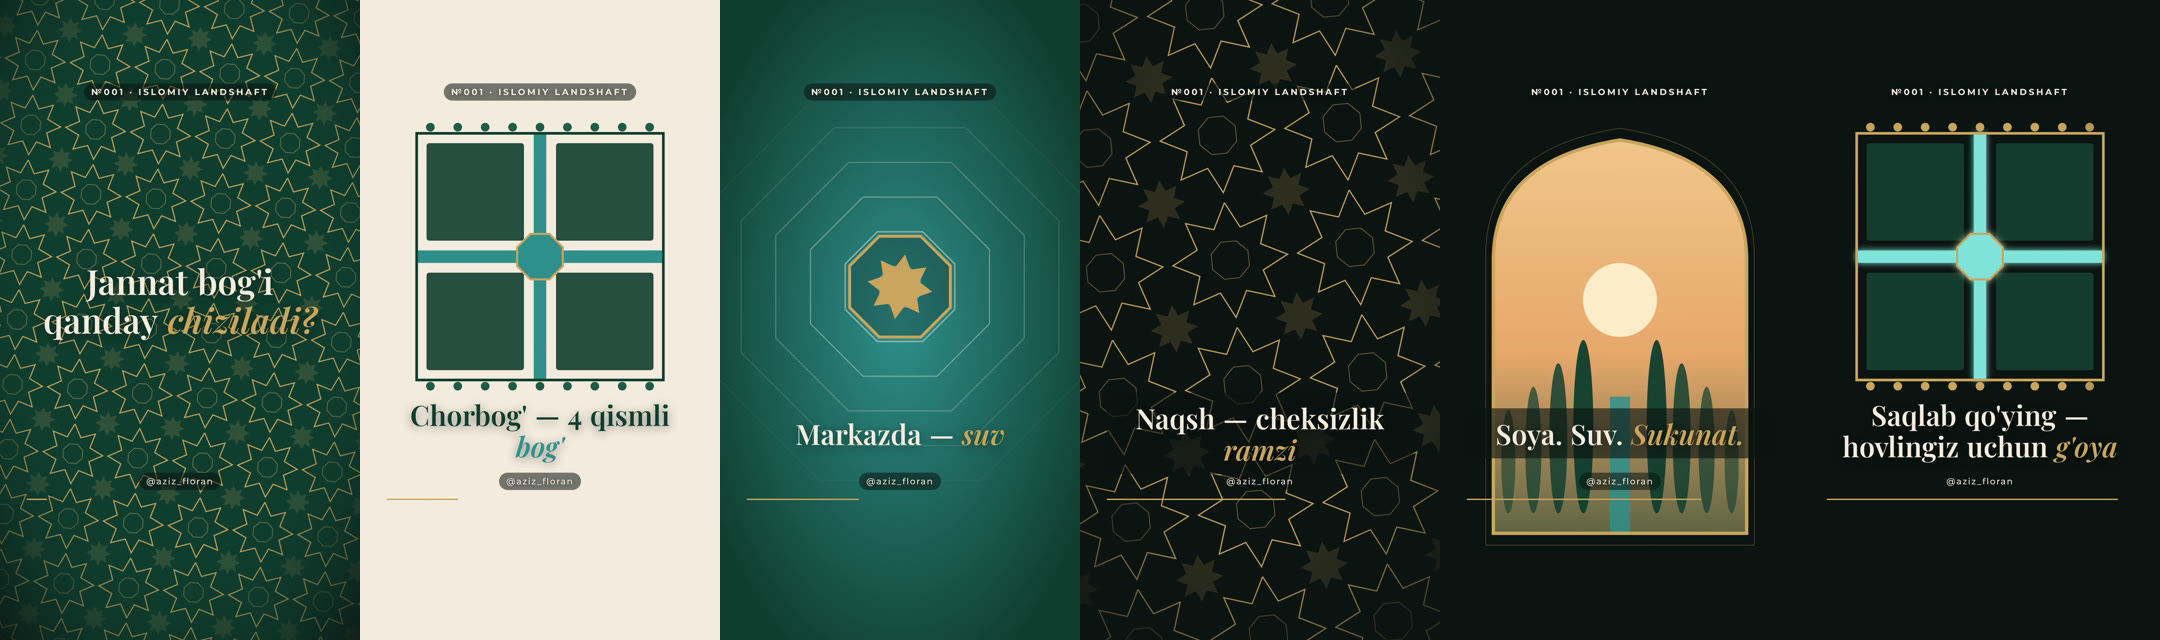
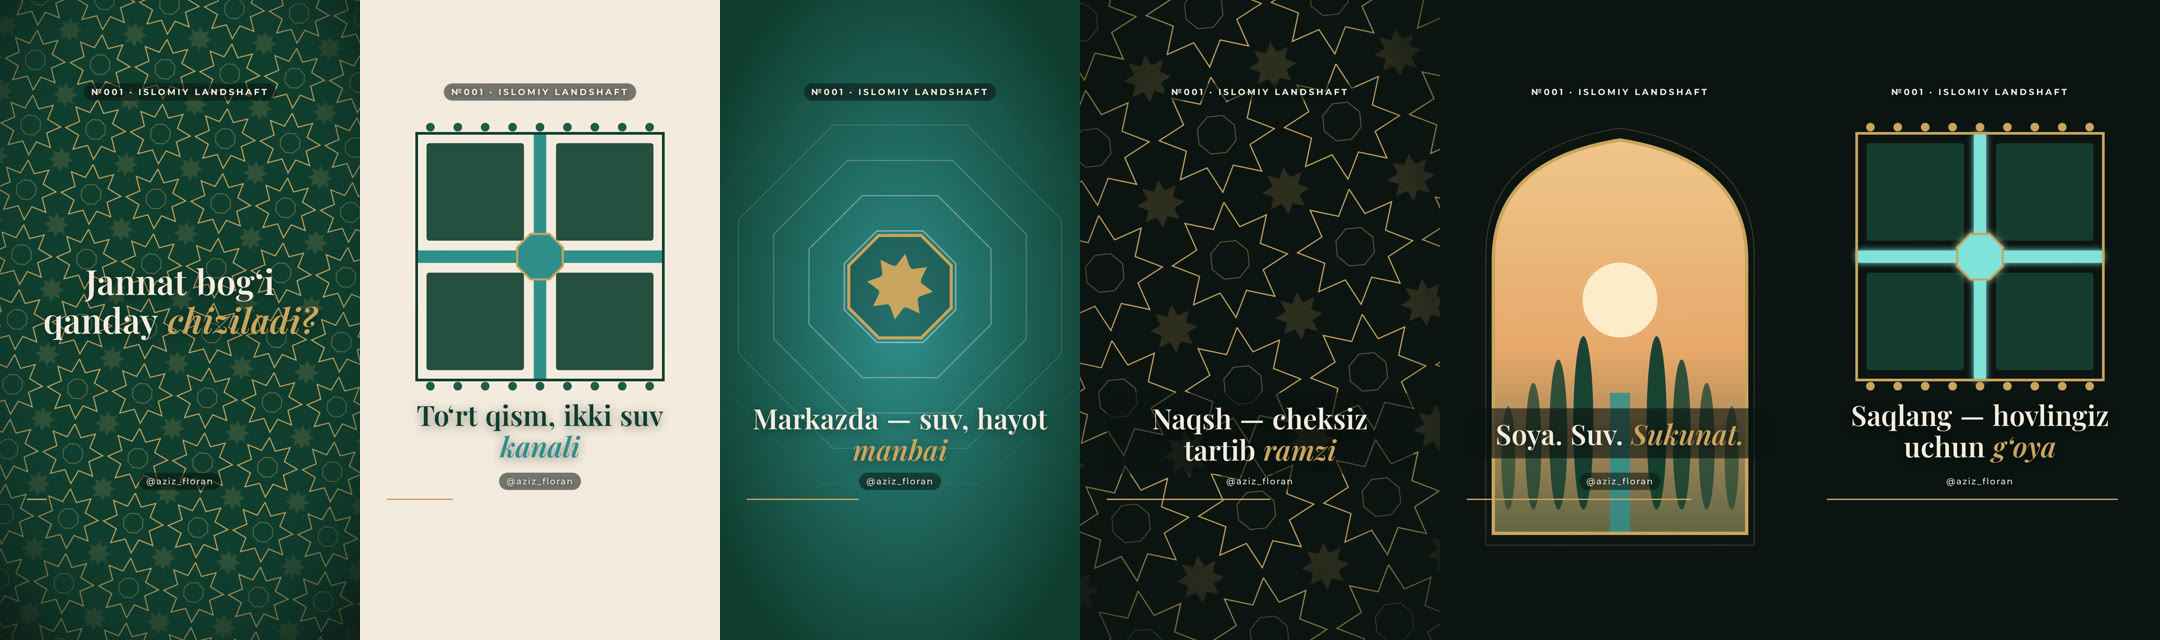
№001 01-creative: yakuniy kontseptsiya, ssenariy va caption
- concept.md: big idea, 6 ta hook varianti, tanlangan hook, sahna mantiqi
- script.json v1 (final): 6 sahna / 30 s, oʻzbek lotin imlosi (oʻ, gʻ)
- caption.md: caption, CTA, 14 hashtag
- project.json: creative → review (QC tasdig'ini kutadi)
- P001-Teaser kadrlari yangi matnlar bilan yangilandi

Claude-Session: https://claude.ai/code/session_01NuPuGHpCenQxg9mTa6XGvP

diff --git a/projects/001-islomiy-landshaft/01-creative/concept.md b/projects/001-islomiy-landshaft/01-creative/concept.md
@@ -1,0 +1,84 @@
+# №001 — Islomiy landshaft · Kontseptsiya (Creative Director)
+
+**Format:** Instagram Reels 9:16 · 1080×1920 · 30 fps · **30 s** · 6 sahna (s01–s06)
+**Manba:** `00-brief.md`, `studio/brand/brand.json` · **Yagona matn/vaqt manbai:** `script.json` (v1, final)
+
+---
+
+## 1. Big idea
+
+**“Jannat bogʻi — bu chizma.”**
+Chorbogʻ tasodifiy goʻzallik emas, balki aniq geometriya: bitta kvadrat, ikkita kesishgan suv kanali, toʻrtta parter va markazda suv. Video tomoshabinni oddiy chiziqdan (girih naqshi) boshlab, real oʻlchamli hovli rejasiga, soʻng golden hour va tungi atmosferaga olib boradi. Tomoshabin “bu goʻzal” deb emas, “buni men ham hovlimda qura olaman” deb tugatishi kerak — shuning uchun video **saqlab qoʻyiladigan** (save) maʼlumotnoma sifatida quriladi.
+
+Hissiy yoʻl: **qiziqish → tushunish → hayrat → sokinlik → harakat (save).**
+
+## 2. Mood va vizual yoʻnalish
+
+- **Kayfiyat:** sokin, tartibli, hurmatli, premium. Shoshilmaydigan, lekin har 2–4 s da vizual oʻzgarish (retention uchun).
+- **Ranglar (brand.json):** emerald `#0F3D2E` (asosiy fon), emeraldLight `#1E5C47`, gold `#C9A45C` (chiziqlar, aksent), sand `#F3EBDD` (reja foni, matn), turquoise `#2F8F8B` (suv), ink `#0B1410` (tun, s04 fon).
+- **Shriftlar:** sarlavha/hook — Playfair Display; yordamchi matn — Montserrat.
+- **Yorugʻlik:** s01–s04 — tekis, “chizma” yorugʻligi; s05 — golden hour (past, iliq, uzun soyalar); s06 — tun, iliq oq (~2700 K) chiroqlar.
+- **Materiallar:** oq travertin, zellij plitka (girih), ganch/gʻisht ravoq, tiniq turkuaz suv.
+- **Cheklovlar:** inson va hayvon tasvirlari yoʻq; diniy matn (oyat/hadis) ishlatilmaydi — “jannat bogʻi” obrazi tarixiy-madaniy maʼnoda beriladi. Ovoz (voiceover) yoʻq — faqat matn, musiqa va SFX (Reels koʻpincha ovozsiz koʻriladi).
+- **Matn xavfsiz zonasi:** yuqori 250 px, pastki 420 px, yon 80 px ichida joylashmaydi.
+
+## 3. Hook variantlari (birinchi 1–3 s)
+
+| # | Hook | Turi | Sabab / baho |
+|---|------|------|--------------|
+| 1 | **Jannat bogʻi qanday chiziladi?** | savol + jarayon | Kuchli qiziqish boʻshligʻi; “chiziladi” feʼli s01 dagi chiziq-chiziq chizilayotgan girih va s02 reja bilan bevosita bogʻlanadi. 4 soʻz — 3 s ichida bemalol oʻqiladi. |
+| 2 | Hovlingiz — toʻrt qismli jannat | shaxsiy vaʼda | Tomoshabinni markazga qoʻyadi, lekin “toʻrt qism” hali tushunarsiz — kontekstsiz kuchsizroq. |
+| 3 | Temuriylar bogʻi siri — hovlingizda | tarix + sir | Mahalliy gʻurur va tarixiy bogʻlanish yaxshi, ammo “sir” klishe va tarixiy daʼvoni videoda isbotlash qiyin. |
+| 4 | Nega bu bogʻ 4 qismga boʻlingan? | “nega” savoli | Yaxshi qiziqish, lekin javobi (ramziy maʼno) videoda qisqa vaqtda toʻliq berilmaydi — vaʼda bajarilmasligi xavfi. |
+| 5 | 20×20 m — jannat bogʻi rejasi | raqam + foyda | Amaliy, save uchun kuchli; lekin hissiy taʼsiri past, birinchi kadrda texnik koʻrinadi. |
+| 6 | Bitta chiziqdan butun bogʻ | vizual vaʼda | Chiroyli va s01 vizualiga mos, ammo mavzuni (islomiy bogʻ) darhol aytmaydi. |
+
+### Tanlangan hook: **“Jannat bogʻi qanday chiziladi?”**
+**Nega:** (1) savol shakli tomoshabinni javobni kutib qolishga undaydi — retention; (2) mavzu (jannat bogʻi obrazi) va format (chizma, reja — save qilinadigan foyda) bir jumlada; (3) s01 vizuali (girih chizilishi) va s02 (reja) bilan soʻzma-soʻz mos — vaʼda darhol bajarila boshlaydi; (4) 4 soʻz / 3 s = 0.75 s/soʻz, oʻqish uchun qulay. Variant 5 dagi “20×20 m” amaliy foydasi caption va s02 ga koʻchirildi.
+
+## 4. Sahna-ma-sahna asoslash
+
+| Sahna | Vaqt | Ekrandagi matn | Vizual | Nega shunday |
+|-------|------|----------------|--------|--------------|
+| s01 hook | 0–3 s | Jannat bogʻi qanday chiziladi? | Girih 8 qirrali yulduz chiziladi, zoom-out | Birinchi kadrda harakat (chiziq paydo boʻlishi) — scroll toʻxtatadi. Matn 0.3 s da chiqadi. |
+| s02 concept | 3–8 s | Toʻrt qism, ikki suv kanali | Top-down reja: perimetr → kanallar → parterlar | Hookka darhol javob: chorbogʻning “formulasi” 5 s da. Reja bosqichma-bosqich quriladi (≈1.5 s da oʻzgarish). |
+| s03 detail | 8–13 s | Markazda — suv, hayot manbai | Favvora top-down, toʻlqinlar kanallarga yoyiladi | Kompozitsiya markaziga zoom — rejadan detalga oʻtish; suv — bogʻning “yuragi”. |
+| s04 detail | 13–18 s | Naqsh — cheksiz tartib ramzi | Zellij girih macro, soya chizigʻi oʻtadi | Hookdagi naqsh qaytadi (loop hissi), endi real material sifatida — chizmadan haqiqatga. |
+| s05 emotion | 18–25 s | Soya. Suv. Sukunat. | Ravoqdan dolly-in + crane-up, golden hour, sarvlar | Eng uzun sahna — hissiy choʻqqi. 3 qisqa soʻz ritmik (har ≈1.2 s), musiqa biroz koʻtariladi. |
+| s06 cta | 25–30 s | Saqlang — hovlingiz uchun gʻoya | Tungi reja, chiroqlar ketma-ket yonadi | s02 rejasining tungi takrori — “halqa” yopiladi; aniq harakatga chaqiriq (save). |
+
+Har sahnada kamida bitta ichki harakat oʻzgarishi bor (taxminan har 2–3.5 s), shuning uchun 7 s li s05 ham “turib qolmaydi”.
+
+## 5. Musiqa yoʻnalishi (Video Editor uchun)
+
+- **Kayfiyat:** ambient, meditativ, Oʻrta Osiyo/Fors ohang rangi; dramatik emas, “epik trailer” uslubi emas.
+- **Temp:** ~70 BPM (60–75 oraligʻi qabul qilinadi). Kesishlar taxminan har 2 taktga (≈3.4 s) yaqin tushadi; s05 dagi “Soya. Suv. Sukunat.” soʻzlari zarbalarga moslanadi.
+- **Asboblar:** oud yoki tanbur (yakka, kam notali), ney yoki flyuta (uzun notalar), yumshoq synth pad / drone, ixtiyoriy yengil daf (faqat s05 da, past balandlikda). Alternativa — butunlay asbobsiz ambient + tabiat tovushlari.
+- **Dinamika:** s01 — tinch kirish + bitta “chime”/ip tovushi chiziq chizilishi bilan; s02–s04 — barqaror; s05 — eng toʻliq qatlam; s06 — sekin soʻnish, oxirgi nota CTA bilan.
+- **SFX:** suv oqimi va favvora (s03), yengil shamol/barg shitirlashi (s05), tungi sverchok yoki sokin muhit (s06), plitka/chiziq uchun nozik “tick” (s01, s04).
+- **Manba turlari:** faqat litsenziyasi aniq hujjatlashtirilgan royalty-free kutubxonalar (tijoriy foydalanishga ruxsat beruvchi obuna yoki bepul litsenziya), CC0 / public domain yozuvlar yoki studiyaning oʻz buyurtma/yozib olingan musiqasi. Instagram ichki musiqa kutubxonasi ham variant, lekin eksport faylda emas, postda qoʻshiladi.
+- **Muhim:** Creative Director aniq trek nomi yoki litsenziya belgilamaydi. `script.json → music.source` va `music.license` ataylab boʻsh qoldirildi — Video Editor tanlab, litsenziya hujjati bilan EDL ga yozadi. Ovoz balandligi: −14 LUFS.
+
+## 6. Jamoaga eslatmalar
+
+### Landscape Architect (02-landscape)
+- Uchastka ~20×20 m, Toshkent (USDA 7a, yozda +40 °C). Reja simmetrik, 2 oʻq (shimol–janub, sharq–gʻarb).
+- Kanallar: 2 ta, eni 1 m, kesishgan; ikki yonida ≥ 1.2 m yoʻlak (QC: yoʻlak eni < 1.2 m — xato). Perimetr yoʻlagi ~1.5 m.
+- 4 ta teng parter (taxminan 6.8×6.8 m — yoʻlak enlariga qarab aniqlang).
+- Markazda sakkiz qirrali favvora havzasi, r = 2 m.
+- Janubiy oʻqda kirish ravogʻi (~2.4 m eni, ~3.6 m balandligi) — s05 kamerasi shu yerdan qaraydi.
+- Oʻsimliklar: sarv (*Cupressus sempervirens*) perimetr boʻylab ~2.5 m oraliqda; anor (*Punica granatum*) har parterda; atirgul (*Rosa damascena*) va lavanda (*Lavandula angustifolia*) parter chetlarida. Issiqqa chidamlilik va sugʻorishni hisobga oling.
+- Barcha oʻlchamlar `script.json → landscapeNeeds` dagi taxminlardan farq qilsa — `plan.json` ustun; Creative Director matnlari oʻlcham koʻrsatmaydi (s02 dan tashqari “toʻrt qism, ikki kanal” — bu oʻzgarmas).
+
+### 3D Visualizer (03-3d)
+- Har sahna `shot` maydonidagi kamera burchagi, harakat va yorugʻlikka amal qiling; 9:16 kompozitsiya, matn uchun markaziy pastki qismda (y ≈ 1290–1300 px) boʻsh joy qoldiring.
+- s02 va s06 — bir xil top-down kamera (kun / tun), ustma-ust qoʻyilsa mos kelishi kerak.
+- s05 — golden hour, quyosh ravoq orqasidan, sarv soyalari kanal ustiga tushsin.
+- Materiallar: travertin, zellij (girih 8 qirrali yulduz, 60×60 sm), turkuaz suv, ganch ravoq. Inson/hayvon yoʻq (qushlar ham).
+
+### Motion Designer (04-motion)
+- Matn va vaqtlar faqat `script.json` dan; qattiq yozmang. Sahna id lari (s01–s06) oʻzgarmagan.
+- Hook matni 0.3 s dan kech chiqmasin; s05 da soʻzlar ketma-ket (≈1.2 s oraliq).
+- Shriftlar: Playfair Display (hook, s05), Montserrat (yordamchi). Matn qatorida ≤ 6 soʻz.
+- Oʻtishlar: s01→s02 pattern-reveal (girih chiziqlari reja chiziqlariga aylanadi), s02→s03 wipe, s03→s04 cut, s04→s05 zoom, s05→s06 fade.
+- Imlo: “oʻ”, “gʻ” — U+02BB; tutuq belgisi — U+02BC. Shrift bu belgilarni toʻgʻri koʻrsatishini tekshiring.

diff --git a/projects/001-islomiy-landshaft/01-creative/caption.md b/projects/001-islomiy-landshaft/01-creative/caption.md
@@ -1,0 +1,26 @@
+# №001 — Islomiy landshaft · Instagram caption
+
+## Caption
+
+Jannat bogʻi qanday chiziladi? 🌿
+
+Chorbogʻ — Sharq bogʻ sanʼatining eng goʻzal formulasi:
+▫ toʻrt teng parter
+▫ kesishgan ikki suv kanali
+▫ markazda sakkiz qirrali favvora
+▫ sarv, anor, atirgul va lavanda
+
+Bu reja ~20×20 m hovliga moslab chizilgan — soya, suv va sokinlik bir joyda.
+Oʻz hovlingizda shunday bogʻni tasavvur qila olasizmi?
+
+📌 Saqlab qoʻying — hovlingiz uchun gʻoya boʻladi.
+📩 Bogʻ orzu qilgan doʻstingizga yuboring.
+💬 Hovlingiz oʻlchamini izohda yozing — keyingi reja sizniki boʻlishi mumkin.
+
+## CTA
+Saqlab qoʻying va doʻstingizga yuboring
+
+## Hashtaglar (14)
+#azizfloran #landshaft #landshaftdizayn #hovlidizayni #toshkent #uzbekistan #gardendesign #landscapedesign #islamicgarden #charbagh #paradisegarden #courtyardgarden #islamicart #girih
+
+> Eslatma: hashtaglarda ataylab “oʻ”/“gʻ” harflari yoʻq — Instagram hashtag ichidagi U+02BB belgisida tegni uzib qoʻyishi mumkin. Caption matnida toʻgʻri imlo saqlangan.

diff --git a/projects/001-islomiy-landshaft/06-qc/qc-report.md b/projects/001-islomiy-landshaft/06-qc/qc-report.md
@@ -1,16 +1,12 @@
 # QC hisobot — №001
 
 <!-- AUTO:START — bu bo'lim scripts/qc.mjs tomonidan qayta yoziladi -->
-Avtomatik tekshiruv: 2026-10-19T13:56:48.639Z · ✅ 4 · ⚠ 5 · ❌ 11
+Avtomatik tekshiruv: 2026-10-19T14:07:16.344Z · ✅ 6 · ⚠ 1 · ❌ 9
 
 ## 01-creative (creative-director)
-- ❌ 01-creative/concept.md YO'Q
+- ✅ 01-creative/concept.md mavjud
 - ✅ 01-creative/script.json mavjud
-- ❌ 01-creative/caption.md YO'Q
-- ⚠ script.json holati "seed" — Creative Director yakunlamagan
-- ⚠ s01: imlo — "o'"/"g'" o'rniga "oʻ"/"gʻ" (U+02BB) ishlating: "Jannat bog'i qanday chiziladi?"
-- ⚠ s02: imlo — "o'"/"g'" o'rniga "oʻ"/"gʻ" (U+02BB) ishlating: "Chorbog' — 4 qismli bog'"
-- ⚠ s06: imlo — "o'"/"g'" o'rniga "oʻ"/"gʻ" (U+02BB) ishlating: "Saqlab qo'ying — hovlingiz uchun g'oya"
+- ✅ 01-creative/caption.md mavjud
 - ✅ Sahna vaqtlari uzluksiz, jami 30 s
 
 ## 02-landscape (landscape-architect)
